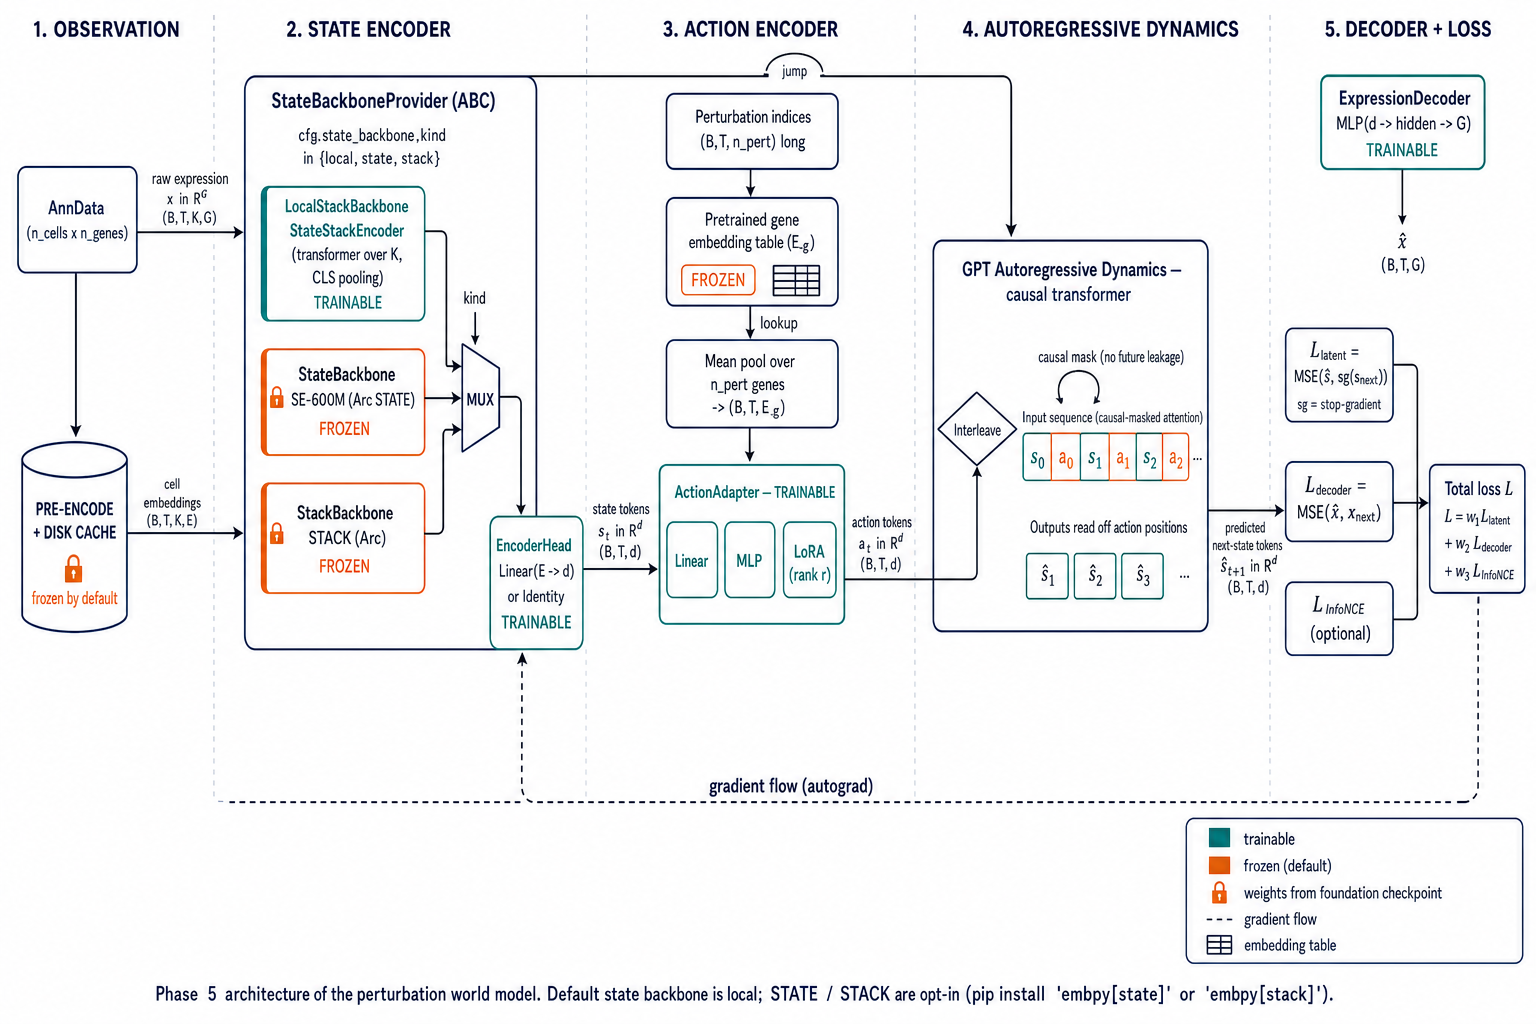
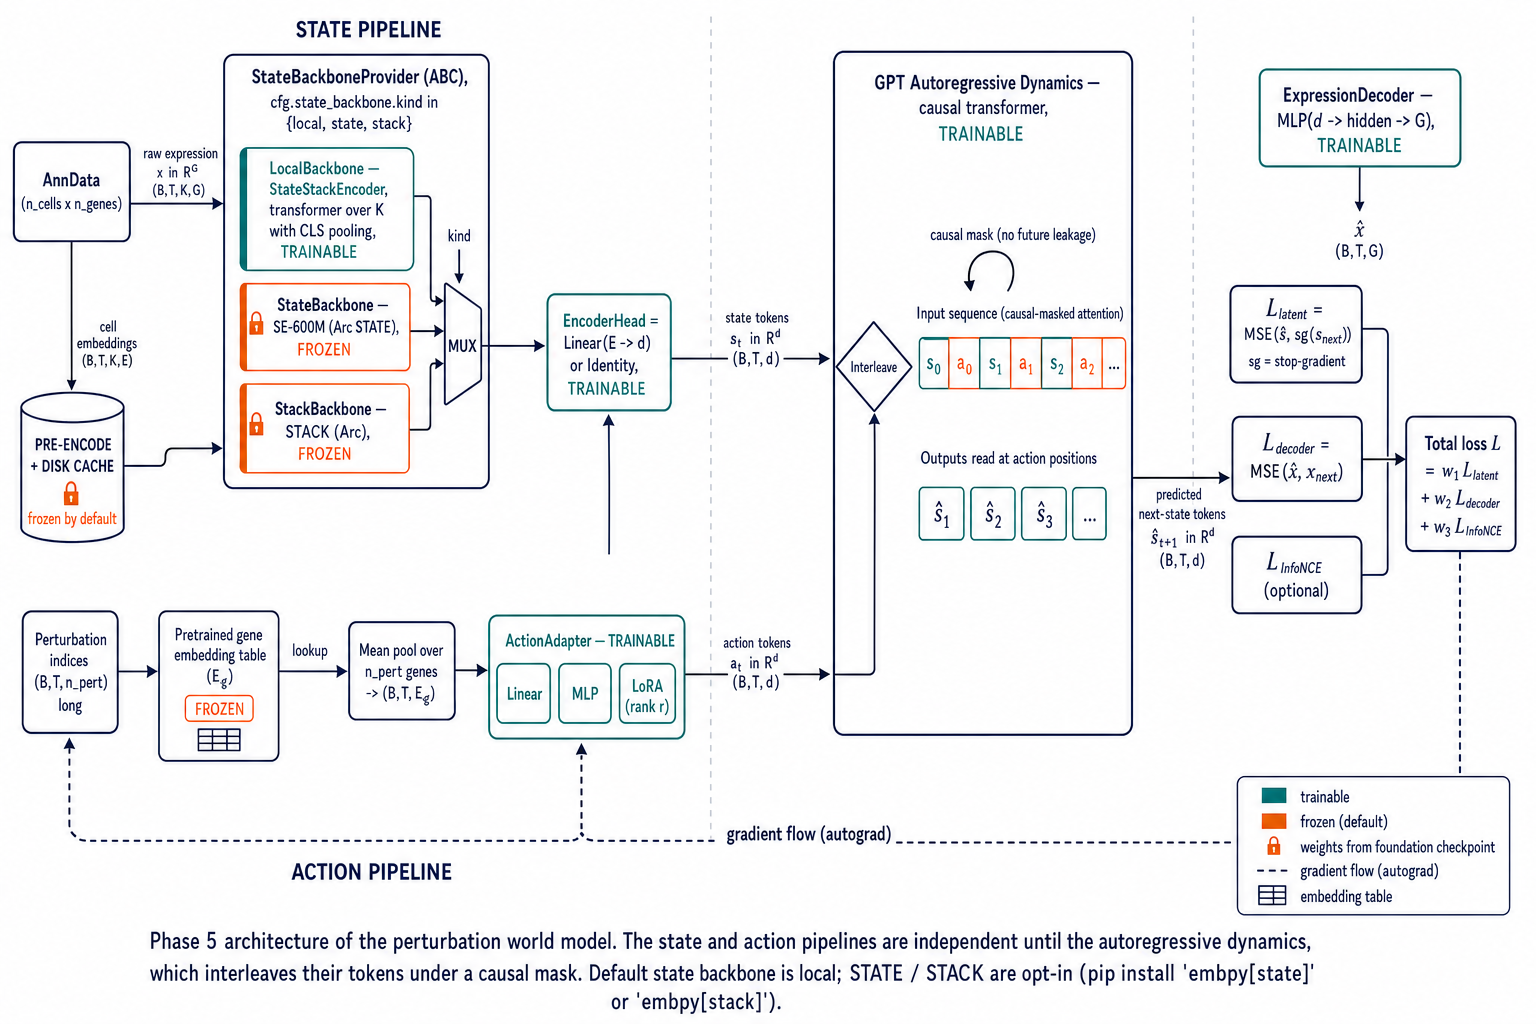
refactor(world_model): rename LocalStackBackbone -> LocalBackbone; redraw schematic with parallel-stream layout
* Rename `LocalStackBackbone` to `LocalBackbone` for symmetry with
  `StateBackbone` / `StackBackbone`. The redundant `Stack` suffix was
  inherited from the wrapped `StateStackEncoder` and added no
  information.
* Keep `LocalStackBackbone` as a thin alias re-exported from
  `models.encoders.backbones.local` and `__init__` so any external
  code keeps working.

* Replace the Phase 5 schematic with a two-stream layout. The state
  pipeline and the action pipeline are now drawn as two parallel
  horizontal rows that share no boxes or arrows. They meet only at
  the `Interleave` diamond inside the GPT dynamics box, which spans
  both rows vertically. Previously the EncoderHead's output arrow
  visually grazed the ActionAdapter, which suggested an information
  flow that does not exist in the code.

diff --git a/src/embpy/world_model/models/encoders/backbones/local.py b/src/embpy/world_model/models/encoders/backbones/local.py
@@ -31,8 +31,12 @@ from .provider import StateBackboneProvider
 logger = logging.getLogger(__name__)
 
 
-class LocalStackBackbone(StateBackboneProvider):
-    """Provider that *is* the existing state-stack encoder."""
+class LocalBackbone(StateBackboneProvider):
+    """Provider that *is* the existing state-stack encoder.
+
+    Backwards-compatible alias :class:`LocalStackBackbone` is re-exported
+    from this module so old import paths keep working.
+    """
 
     name: str = "local"
     supports_decode: bool = False
@@ -99,7 +103,7 @@ class LocalStackBackbone(StateBackboneProvider):
         for p in self._encoder.parameters():
             p.requires_grad_(False)
             n += p.numel()
-        logger.info("LocalStackBackbone froze %d parameters.", n)
+        logger.info("LocalBackbone froze %d parameters.", n)
 
     def parameters(self) -> Iterable[torch.nn.Parameter]:
         return iter(())
@@ -108,4 +112,7 @@ class LocalStackBackbone(StateBackboneProvider):
         del flag
 
 
-__all__ = ["LocalStackBackbone"]
+LocalStackBackbone = LocalBackbone
+
+
+__all__ = ["LocalBackbone", "LocalStackBackbone"]

diff --git a/src/embpy/world_model/models/world_model.py b/src/embpy/world_model/models/world_model.py
@@ -27,7 +27,7 @@ from .decoders.expression_decoder import ExpressionDecoder
 from .dynamics.gpt_autoregressive import GPTAutoregressiveDynamics
 from .encoders.backbones import (
     ForeignBackboneHead,
-    LocalStackBackbone,
+    LocalBackbone,
     StateBackboneProvider,
     build_backbone,
 )
@@ -404,7 +404,7 @@ def build_world_model(
             dropout=dropout,
         )
         if state_backbone_cfg is not None:
-            backbone = LocalStackBackbone(encoder=encoder)
+            backbone = LocalBackbone(encoder=encoder)
             if state_backbone_cfg.freeze:
                 # The local backbone's encoder participates in the world
                 # model's parameter list. Freezing it here mirrors the

diff --git a/src/embpy/world_model/models/encoders/backbones/registry.py b/src/embpy/world_model/models/encoders/backbones/registry.py
@@ -5,7 +5,7 @@ from __future__ import annotations
 import logging
 from typing import TYPE_CHECKING, Any
 
-from .local import LocalStackBackbone
+from .local import LocalBackbone
 from .provider import StateBackboneProvider
 from .stack import StackBackbone
 from .state import StateBackbone
@@ -41,7 +41,7 @@ def build_backbone(
             raise ValueError(
                 "build_backbone(kind='local') requires n_genes, d_model, stack_size."
             )
-        return LocalStackBackbone(
+        return LocalBackbone(
             encoder_kind=encoder_kind,
             n_genes=n_genes,
             d_model=d_model,

diff --git a/src/embpy/world_model/models/encoders/backbones/__init__.py b/src/embpy/world_model/models/encoders/backbones/__init__.py
@@ -25,7 +25,7 @@ from __future__ import annotations
 
 from .cache import inspect_cache, load_cached, save_cached
 from .foreign_head import ForeignBackboneHead
-from .local import LocalStackBackbone
+from .local import LocalBackbone, LocalStackBackbone
 from .provider import ProviderMetadata, StateBackboneProvider
 from .registry import build_backbone
 from .stack import StackBackbone
@@ -33,6 +33,7 @@ from .state import StateBackbone
 
 __all__ = [
     "ForeignBackboneHead",
+    "LocalBackbone",
     "LocalStackBackbone",
     "ProviderMetadata",
     "StackBackbone",

diff --git a/src/embpy/world_model/configs/base.py b/src/embpy/world_model/configs/base.py
@@ -286,7 +286,7 @@ class StateBackboneConfig:
     Three flavours via ``kind``:
 
     * ``"local"`` -- the existing :class:`StateStackEncoder` wrapped as
-      a :class:`LocalStackBackbone`. Default. Byte-equivalent to the
+      a :class:`LocalBackbone`. Default. Byte-equivalent to the
       pre-Phase-5 path. No extra dependencies.
     * ``"state"`` -- STATE / SE-600M (Arc Institute) via
       :class:`StateEmbeddingWrapper`. Requires the ``arc-state``
